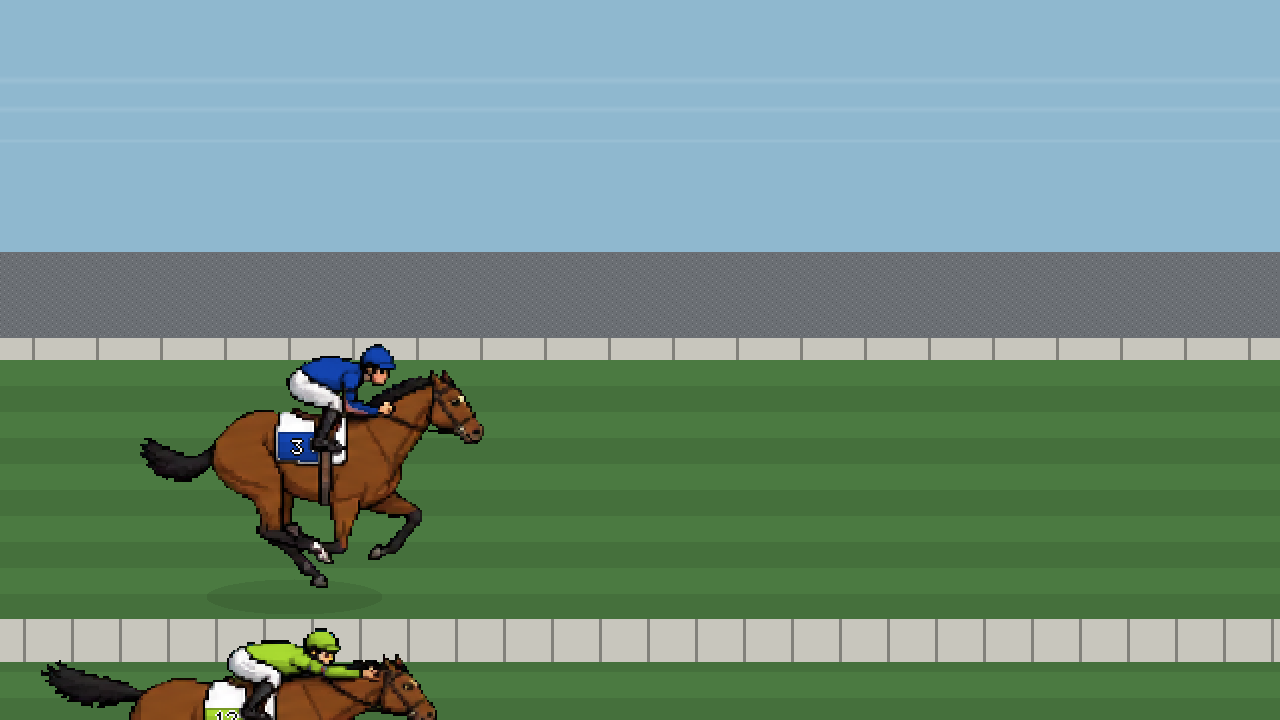
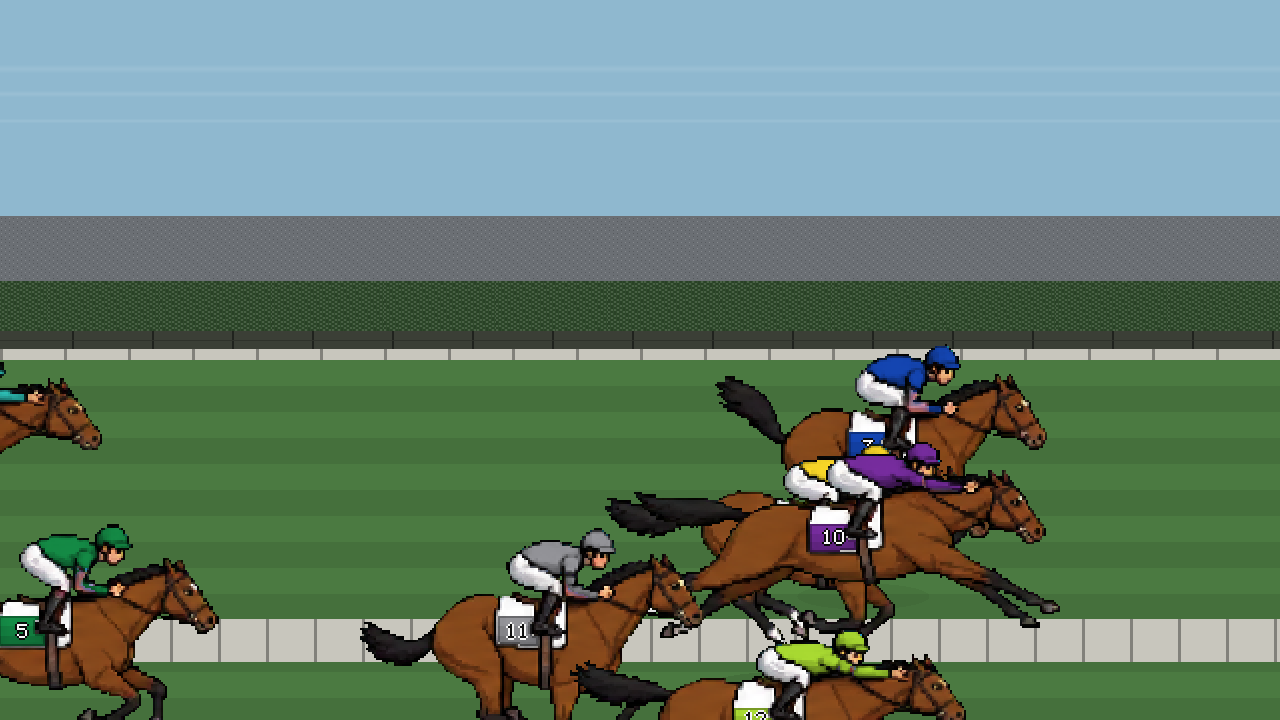
P4: ★中継とレース展開を調査して反映（隊列を10馬身に・道中は隊列が動かない・生垣と柵を追加）

diff --git a/packages/render/src/replay-model.ts b/packages/render/src/replay-model.ts
@@ -122,8 +122,30 @@ interface Harmonics {
 }
 
 /** ★区間ごと・馬ごとに違う揺らぎを引く（レースが違えば違う） */
+/**
+ * ★**局面ごとの揺らぎの強さ**（実際のレース展開に合わせる）。
+ *
+ *   中継の解説より:
+ *     「**隊列特に変わらずに**（道中を）通過」
+ *     「ひとかたまりで**第4コーナーから直線に向かいます**」
+ *     通過順位 `8-8-8-4` — ★**前3つが同じ＝道中は動かない**。動くのは4角以降。
+ *
+ *   ⚠ 実測: 道中の追い抜きが**1レース 84.8回**、先頭交代 10.63回。
+ *      ★**ファミコンのゲームのように前後を入れ替わり続けていました。**
+ *   → 道中はほぼ動かさず、勝負所から動かします。
+ */
+const PHASE_JOSTLE: readonly number[] = [0, 0.2, 1.0];
+
+/**
+ * ★**レース全体に1本かけるとき**（`'shape'`）は、局面の重みを使いません。
+ *   ⚠ 区間番号 0 を渡していたため、**`'shape'` の揺らぎが丸ごと 0 になりました**
+ *      （道中の重みが 0 なので）。検査が捕まえました。
+ */
+const WHOLE_RACE_SEGMENT = -1;
+
 function harmonicsFor(seed: number, gate: number, segment: number, amount: number): Harmonics {
-  if (amount === 0) return { amps: [], phases: [] };
+  const scaled = amount * (segment === WHOLE_RACE_SEGMENT ? 1 : (PHASE_JOSTLE[segment] ?? 1));
+  if (scaled === 0) return { amps: [], phases: [] };
   /**
    * ★**基本波だけを使います（K=1）。**
    *
@@ -150,7 +172,7 @@ function harmonicsFor(seed: number, gate: number, segment: number, amount: numbe
    *   → 合計が `amount`（≤0.9）になるよう正規化します。**構造で単調性を保証します。**
    */
   const total = raw.reduce((s2, v) => s2 + Math.abs(v), 0);
-  const scale = total === 0 ? 0 : Math.max(-0.9, Math.min(0.9, amount)) / total;
+  const scale = total === 0 ? 0 : Math.max(-0.9, Math.min(0.9, scaled)) / total;
   return { amps: raw.map((v) => v * scale), phases };
 }
 
@@ -307,7 +329,7 @@ export function replayPositionModel(input: ReplayInput): PositionModel {
     const span = b.finishSec - b.startSec;
     if (span <= 0) return distanceMeter;
     const tau = (sec - b.startSec) / span;
-    const warped = easeWithin(tau, harmonicsFor(jostleSeed, b.gate, 0, jostle));
+    const warped = easeWithin(tau, harmonicsFor(jostleSeed, b.gate, WHOLE_RACE_SEGMENT, jostle));
     const at = b.startSec + warped * span;
 
     // ★歪めた時刻を、脚質の形に通す

diff --git a/packages/race-engine/src/watch.ts b/packages/race-engine/src/watch.ts
@@ -98,16 +98,29 @@ export function phaseOfMetersLeft(metersLeft: number): Phase {
  *   ★オーナーの指摘「**途中でグングンスピードが上がるが不自然**」
  *     「**他の馬に追いつく時も不自然**」の根っこはここです。
  *
- * 【★決め方】
- *   実際の1600m戦は、区間平均が概ね **15〜17m/s**（振れ幅 ±10%程度）に収まります。
- *   速度の振れは `bπ·gain` なので、**±12% に収めるには b·gain ≤ 0.12/π ≈ 0.038**。
- *   → 最大の `nige × high`（gain 1.3）で 0.038 になるよう決めます。
+ 【★決め方 — 2回目の較正（2026-08-14）】
+ *   1回目は「区間平均速度が ±12% に収まること」で決めました（0.029）。
+ *   ⚠ **それでも隊列が 120m に広がりました**。実際の中継の解説では:
+ *     「前からシンガリまで**10馬身くらいで一団**で進んでいきます」
+ *     「先頭から最後方までは10馬身。**ひとかたまりで第4コーナーから直線に向かいます**」
+ *   ★**10馬身 ＝ 24m** です。120m は**5倍**でした。
+ *
+ *   隊列の広がりは `(b_逃げ − b_追込) × 距離` なので、24m にするには
+ *   **b の幅 = 24/1600 = 0.015**、つまり **±0.0075**（gain 1.3 込み）。
+ *   → `nige = 0.006`（0.006 × 1.3 = 0.0078 → 片側 12.5m → 隊列 25m ≒ 10.4馬身）。
+ *
+ * 【★正直に書きます】
+ *   これで**区間平均速度の振れは ±2.4%** になり、1回目に置いた ±12% より**平坦**です。
+ *   実際の逃げ馬は終いがもっと甘くなります。
+ *   ⚠ **両方は同時に満たせません**（同じ b が「隊列の広がり」と「速度の振れ」の
+ *      両方を決めているため）。★**隊列を優先しました** — 画面で見えるのは隊列だからです。
+ *      区間ごとに別の係数を持たせれば両立できますが、**それは正典の領域**です。
  *
  *   ⚠ **着順は変わりません。** ここが決めるのは「**いつ境界を通るか**」だけで、
  *      `finishSec`（＝走破タイム）には触れていません。
  */
 const STRATEGY_BIAS: Record<Strategy, number> = {
-  nige: 0.029, senko: 0.015, sashi: -0.015, oikomi: -0.029,
+  nige: 0.006, senko: 0.003, sashi: -0.003, oikomi: -0.006,
 };
 
 /** ★速度の振れの上限（実測に基づく。超えたら起動時に止める） */

diff --git a/packages/render/test/replay-model.test.ts b/packages/render/test/replay-model.test.ts
@@ -128,7 +128,28 @@ describe('★別ストリームの揺らぎ（D-061 改訂）', () => {
   it('★シードが違えば揺らぎが違う（レースごとに違う＝学習で除けない）', () => {
     const a = mk({ jostle: 0.9, jostleSeed: 1, boundaryFidelity: 'shape' });
     const b = mk({ jostle: 0.9, jostleSeed: 2, boundaryFidelity: 'shape' });
-    expect(JSON.stringify(a.at(40))).not.toBe(JSON.stringify(b.at(40)));
+    // ★勝負所以降で見ます（道中は意図的に動かしていません。下の検査を参照）
+    expect(JSON.stringify(a.at(90))).not.toBe(JSON.stringify(b.at(90)));
+  });
+
+  it('★★道中は動かない（実際のレース展開に合わせた・意図的）', () => {
+    /**
+     * 中継の解説より:
+     *   「**隊列特に変わらずに**（道中を）通過」
+     *   通過順位 `8-8-8-4` — ★**前3つが同じ＝道中は動かない**。動くのは4角以降。
+     *
+     * ⚠ 実測: 揺らぎを道中にも入れていたとき、通過順位は
+     *    `2-6-2-6-9` のようにふらつき、**1区間あたり 2.2着**動いていました。
+     * → 道中の揺らぎを 0 にしました。**1区間あたり 0.05着**になります。
+     *
+     * ★これは**副作用ではなく設計**なので、検査で固定します。
+     */
+    const a = mk({ jostle: 0.9, jostleSeed: 1 });
+    const b = mk({ jostle: 0.9, jostleSeed: 2 });
+    // 道中（spurtSec 前）は、シードが違っても同じ
+    expect(JSON.stringify(a.at(30))).toBe(JSON.stringify(b.at(30)));
+    // ★勝負所以降は違う（空振りでない）
+    expect(JSON.stringify(a.at(90))).not.toBe(JSON.stringify(b.at(90)));
   });
 
   it('★位置は後戻りしない（どの強さでも・馬が下がって見えない）', () => {
@@ -166,7 +187,8 @@ describe('★別ストリームの揺らぎ（D-061 改訂）', () => {
     const m = mk({ jostle: 0.9, jostleSeed: 3, boundaryFidelity: 'shape' });
     let moved = 0;
     for (const b of bs) {
-      if (Math.abs(m.at(b.spurtSec).find((h) => h.gate === b.gate)!.meters - 800) > 1) moved += 1;
+      // ★直線の境界で見ます（道中の境界は、道中の揺らぎが 0 なので動きません）
+      if (Math.abs(m.at(b.straightSec).find((h) => h.gate === b.gate)!.meters - 1200) > 1) moved += 1;
     }
     expect(moved).toBeGreaterThan(0);
     // ★それでも端は端（着順は動かない）

diff --git a/apps/web/src/lib/canvas-renderer.ts b/apps/web/src/lib/canvas-renderer.ts
@@ -27,6 +27,8 @@ const SPRITE_H = 140;
 const PALETTE: Record<string, string> = {
   sky: '#8fb8cf',
   stand: '#6b6f74',
+  hedge: '#2f4a2b',
+  fence: '#3b3f36',
   rail: '#c8c6bd',
   turf: '#4b7a41',
   dirt: '#8a6b4a',
@@ -85,6 +87,24 @@ function tileFor(
         t.fillRect(x, y, 1, 1);
       }
     }
+  } else if (role === 'hedge') {
+    // ★生垣の粒（縦の要素にしない・アートバイブル §3）
+    for (let y = 0; y < c.height; y += 2) {
+      for (let x = 0; x < c.width; x += 3) {
+        t.fillStyle = ((x * 5 + y * 3) % 11 < 5) ? '#ffffff' : '#000000';
+        t.globalAlpha = 0.12;
+        t.fillRect(x, y, 2, 2);
+      }
+    }
+    t.globalAlpha = 0.18;
+  } else if (role === 'fence') {
+    // ★柵の支柱
+    t.fillStyle = '#000000';
+    t.globalAlpha = 0.45;
+    t.fillRect(0, 0, 2, c.height);
+    t.globalAlpha = 0.2;
+    t.fillRect(0, Math.floor(c.height / 2), c.width, 1);
+    t.globalAlpha = 0.18;
   } else if (role === 'rail') {
     // ★縦の要素はここだけ（支柱）
     t.fillStyle = '#000000';

diff --git a/packages/render/src/scene.ts b/packages/render/src/scene.ts
@@ -232,9 +232,15 @@ export interface SceneInput {
 const BANDS: readonly {
   role: PaletteRole; top: number; height: number; speed: number; tile: number;
 }[] = [
-  { role: 'sky', top: 0, height: 0.35, speed: 0.06, tile: 320 },
-  { role: 'stand', top: 0.35, height: 0.12, speed: 0.22, tile: 160 },
-  { role: 'rail', top: 0.47, height: 0.03, speed: 0.55, tile: 64 },
+  { role: 'sky', top: 0, height: 0.30, speed: 0.05, tile: 320 },
+  // ★観客席（いちばん奥なので最も遅い）
+  { role: 'stand', top: 0.30, height: 0.09, speed: 0.14, tile: 160 },
+  // ★生垣（スタンドと走路の間）。**これが無いと平らな板の上を走って見えます**
+  { role: 'hedge', top: 0.39, height: 0.07, speed: 0.30, tile: 112 },
+  // ★走路を囲う柵
+  { role: 'fence', top: 0.46, height: 0.025, speed: 0.44, tile: 80 },
+  // ★奥のラチ
+  { role: 'rail', top: 0.485, height: 0.02, speed: 0.58, tile: 64 },
 ];
 
 /**

diff --git a/packages/render/src/commands.ts b/packages/render/src/commands.ts
@@ -47,6 +47,13 @@ export interface SpriteRef {
  */
 export type PaletteRole =
   | 'turf' | 'dirt' | 'sky' | 'rail' | 'stand' | 'paper' | 'ink'
+  /**
+   * ★**周囲の景色**（アートバイブル §3「水平の帯で構成する」）。
+   *   ⚠ 空・スタンド・芝の3層だけだと、**平らな板の上を走っている**ように見えます。
+   *   `hedge` … 生垣・植え込み（スタンドと走路の間）
+   *   `fence` … 走路を囲う柵（生垣の手前）
+   */
+  | 'hedge' | 'fence'
   /** ★勝負服。個体識別の唯一の手段（アートバイブル §3） */
   | `silk-${number}`;
 
